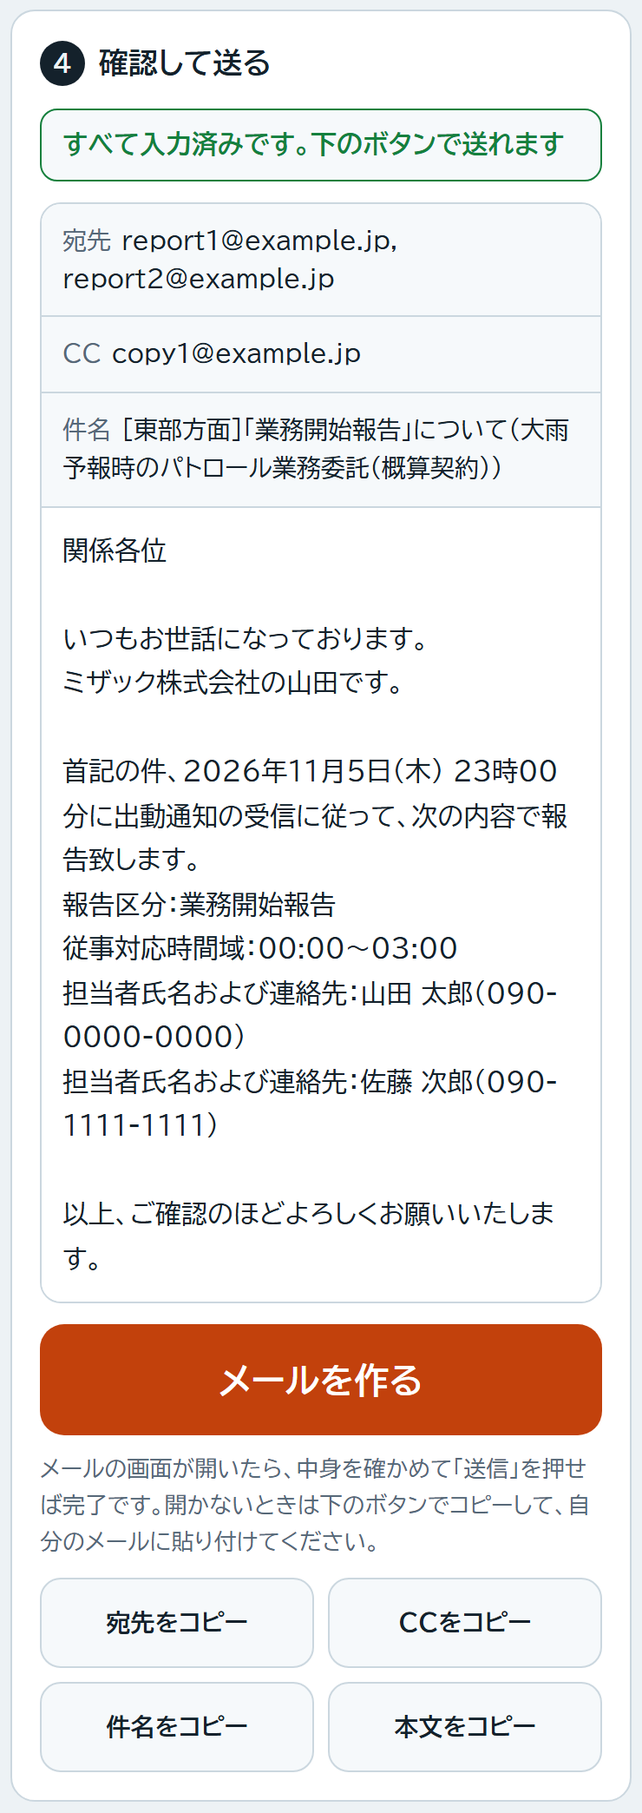
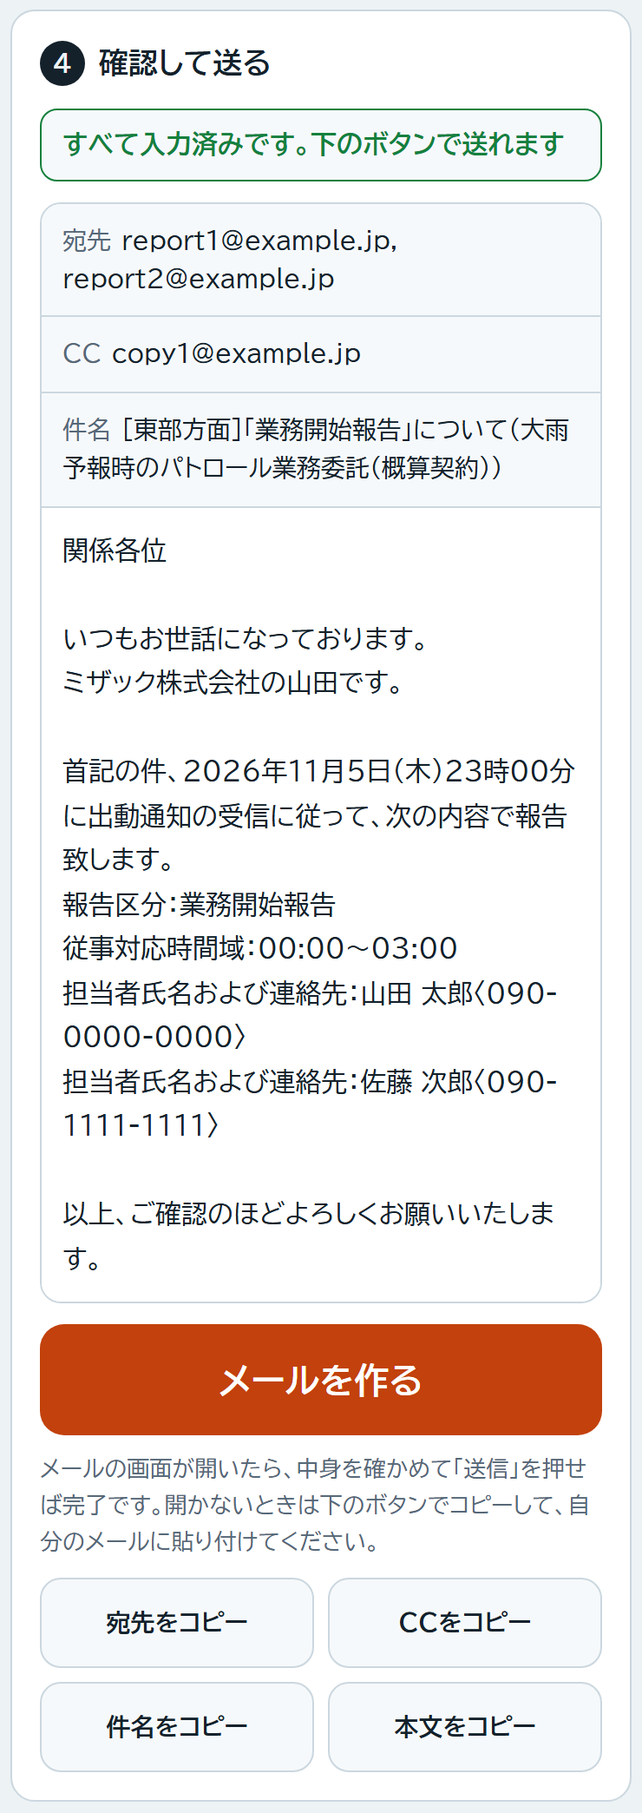
報告メールを運用マニュアルの案文どおりにする
- 経過報告は必ず継続あり（継続時間域・継続の担当者をいつも書く）。「継続あり」のチェックをなくす
- 経過でも異常なしを選べるようにする
- 終了報告の実施済時間域を出動の開始～最後の終了まで通しにする（備考欄をなくす）
- 結果報告を案文の例①②③に戻し、異常ありは電話応答時刻・CWO担当者・対応内容を必須にする
- 異常ありのとき、メールの前に担当方面のエリアマネージャーへ電話する案内を出す
- 方面の初期値をなくす。経過・終了は「次内容で」、連絡先は〈〉、受信日時のスペースを除く
- ガイドに3通りの流れと送る時刻を書く

Changed region(s): [[0.0932, 0.4047, 0.9014, 0.4981]]

diff --git a/index.html b/index.html
@@ -242,66 +242,63 @@ mark.miss{background:none;color:var(--miss);font-weight:700}
   <section>
     <h2><span class="num">3</span>内容</h2>
 
-    <div data-for="start">
-      <span class="lbl">従事対応時間域（予報された3時間）</span>
-      <div class="seg c4 blocks" data-block="planB" role="radiogroup" aria-label="従事対応時間域"></div>
+    <p class="hint" data-for="prog">経過報告は、次の3時間も続けて出動するときに送ります（続けないときは「終了」）。</p>
+
+    <div data-for="start end">
+      <span class="lbl" data-for="start">従事対応時間域（予報された3時間）</span>
+      <span class="lbl" data-for="end">出動したときの3時間（その日の最初）</span>
+      <div class="seg c4 blocks" data-block="planB" role="radiogroup" aria-label="出動したときの時間域"></div>
     </div>
 
     <div data-for="prog end">
-      <span class="lbl" data-for="prog">実施済時間域（パトロールした3時間）</span>
-      <span class="lbl" data-for="end">実施済時間域（最後にパトロールした3時間）</span>
+      <span class="lbl" data-for="prog">実施済時間域（今回パトロールした3時間）</span>
+      <span class="lbl" data-for="end">最後にパトロールした3時間</span>
       <div class="seg c4 blocks" data-block="doneB" role="radiogroup" aria-label="実施済時間域"></div>
+      <p class="hint" data-for="prog" style="margin-top:6px">2回目の経過報告のときは、前回の継続時間域を選んでください。</p>
+      <p class="hint" data-for="end" style="margin-top:6px">メールの実施済時間域は、出動したときから最後までを通しで書きます（<b id="spanView"></b>）。</p>
     </div>
 
     <div data-for="prog end">
       <span class="lbl">結果報告</span>
       <div class="seg result">
-        <label data-for="end"><input type="radio" name="result" value="ok" id="r-ok">異常なし</label>
-        <label><input type="radio" name="result" value="ng" id="r-ng">異常あり（場所・内容・対応を入れる）</label>
+        <label><input type="radio" name="result" value="ok" id="r-ok">異常なし</label>
+        <label><input type="radio" name="result" value="ng" id="r-ng">異常あり（電話してから入れる）</label>
         <label><input type="radio" name="result" value="other" id="r-other">その他（自分で書く）</label>
       </div>
     </div>
     <div data-for="prog end" data-result="ng" class="stack">
+      <div class="banner bad" id="callFirst"></div>
       <input type="hidden" id="abnN" name="abnN" value="1">
       <div class="abn" id="abn1">
         <div class="abnhead"><b>異常 1件目</b></div>
-        <div><label for="place1">所在地</label><input type="text" id="place1" name="place1" placeholder="例）生野区中川4丁目 〇〇付近"></div>
+        <div><label for="place1">場所</label><input type="text" id="place1" name="place1" placeholder="例）生野区中川4丁目 〇〇付近"></div>
         <div><label for="what1">異常内容</label><input type="text" id="what1" name="what1" placeholder="例）マンホールより水柱"></div>
-        <div><label for="cwo1">連絡したCWO担当者（連絡したときだけ）</label><input type="text" id="cwo1" name="cwo1" placeholder="例）佐藤"></div>
-        <div><label for="act1"><span data-for="end">対応内容（連絡以外にしたこと）</span><span data-for="prog">対応内容・このあとの動き</span></label><textarea id="act1" name="act1" class="act" placeholder="例）約10ｍ後方より自主警備実施（CWOと交代まで）"></textarea><p class="hint" data-for="prog" style="margin-top:4px">したこと（連絡以外）と、報告のあと待機するか巡回に戻るかを書いてください。</p></div>
+        <div class="grid2"><div><label for="cwo1">電話したCWO担当者</label><input type="text" id="cwo1" name="cwo1" placeholder="例）佐藤"></div><div><label for="call1">電話の応答時刻</label><input type="time" id="call1" name="call1"></div></div>
+        <div><label for="act1">対応内容（指示されたこと・したこと）</label><textarea id="act1" name="act1" placeholder="例）CWOの指示で、約10ｍ後方より自主警備実施（CWOと交代まで）"></textarea></div>
       </div>
       <div class="abn" id="abn2" hidden>
         <div class="abnhead"><b>異常 2件目</b><button type="button" class="btn-x" data-del="2">この件を消す</button></div>
-        <div><label for="place2">所在地</label><input type="text" id="place2" name="place2" placeholder="例）生野区中川4丁目 〇〇付近"></div>
+        <div><label for="place2">場所</label><input type="text" id="place2" name="place2" placeholder="例）生野区中川4丁目 〇〇付近"></div>
         <div><label for="what2">異常内容</label><input type="text" id="what2" name="what2" placeholder="例）マンホールより水柱"></div>
-        <div><label for="cwo2">連絡したCWO担当者（連絡したときだけ）</label><input type="text" id="cwo2" name="cwo2" placeholder="例）佐藤"></div>
-        <div><label for="act2"><span data-for="end">対応内容（連絡以外にしたこと）</span><span data-for="prog">対応内容・このあとの動き</span></label><textarea id="act2" name="act2" class="act" placeholder="例）約10ｍ後方より自主警備実施（CWOと交代まで）"></textarea><p class="hint" data-for="prog" style="margin-top:4px">したこと（連絡以外）と、報告のあと待機するか巡回に戻るかを書いてください。</p></div>
+        <div class="grid2"><div><label for="cwo2">電話したCWO担当者</label><input type="text" id="cwo2" name="cwo2" placeholder="例）佐藤"></div><div><label for="call2">電話の応答時刻</label><input type="time" id="call2" name="call2"></div></div>
+        <div><label for="act2">対応内容（指示されたこと・したこと）</label><textarea id="act2" name="act2" placeholder="例）CWOの指示で、約10ｍ後方より自主警備実施（CWOと交代まで）"></textarea></div>
       </div>
       <div class="abn" id="abn3" hidden>
         <div class="abnhead"><b>異常 3件目</b><button type="button" class="btn-x" data-del="3">この件を消す</button></div>
-        <div><label for="place3">所在地</label><input type="text" id="place3" name="place3" placeholder="例）生野区中川4丁目 〇〇付近"></div>
+        <div><label for="place3">場所</label><input type="text" id="place3" name="place3" placeholder="例）生野区中川4丁目 〇〇付近"></div>
         <div><label for="what3">異常内容</label><input type="text" id="what3" name="what3" placeholder="例）マンホールより水柱"></div>
-        <div><label for="cwo3">連絡したCWO担当者（連絡したときだけ）</label><input type="text" id="cwo3" name="cwo3" placeholder="例）佐藤"></div>
-        <div><label for="act3"><span data-for="end">対応内容（連絡以外にしたこと）</span><span data-for="prog">対応内容・このあとの動き</span></label><textarea id="act3" name="act3" class="act" placeholder="例）約10ｍ後方より自主警備実施（CWOと交代まで）"></textarea><p class="hint" data-for="prog" style="margin-top:4px">したこと（連絡以外）と、報告のあと待機するか巡回に戻るかを書いてください。</p></div>
+        <div class="grid2"><div><label for="cwo3">電話したCWO担当者</label><input type="text" id="cwo3" name="cwo3" placeholder="例）佐藤"></div><div><label for="call3">電話の応答時刻</label><input type="time" id="call3" name="call3"></div></div>
+        <div><label for="act3">対応内容（指示されたこと・したこと）</label><textarea id="act3" name="act3" placeholder="例）CWOの指示で、約10ｍ後方より自主警備実施（CWOと交代まで）"></textarea></div>
       </div>
       <button type="button" class="btn-add" id="addAbn">＋ 異常をもう1件追加（3件まで）</button>
       <p class="hint">写真は、メールの画面が開いたあとに添付してください。</p>
     </div>
     <div data-for="prog end" data-result="other">
-      <label for="other">結果報告の内容</label>
+      <label for="other">結果報告の内容（事象に応じた報告）</label>
       <textarea id="other" name="other" placeholder="起きたことをそのまま書いてください"></textarea>
     </div>
-    <div data-for="end">
-      <label for="endNote">継続して出動したときの一言（なければ空のまま）</label>
-      <textarea id="endNote" name="endNote" placeholder="例）12:00から継続して巡回し、18:00に終了しました。"></textarea>
-      <p class="hint" style="margin-top:4px">経過報告で「継続あり」にしていたときは、自動で入ります（直せます）。メールには「備考」として入ります。</p>
-    </div>
 
-    <div data-for="prog" class="staff">
-      <label class="check"><input type="checkbox" id="contOn" name="contOn">次の3時間も続けて出動する（継続あり）</label>
-      <p class="hint">続けて出動するときだけチェックします。チェックすると、継続時間域と継続の担当者がメールに入ります。</p>
-    </div>
-    <div data-for="prog" class="stack" id="contArea">
+    <div data-for="prog" class="stack">
       <div>
         <span class="lbl">継続時間域（次の3時間）</span>
         <div class="seg c4 blocks" data-block="contB" role="radiogroup" aria-label="継続時間域"></div>
@@ -353,7 +350,7 @@ mark.miss{background:none;color:var(--miss);font-weight:700}
   var KEY = 'rainReport.form.v1';
   var CFG = 'rainReport.cfg.v1';
   var FIELDS = ['me','area','rDate','rTime','n1','p1','n2','p2','type',
-    'planB','doneB','result','abnN','place1','what1','cwo1','act1','place2','what2','cwo2','act2','place3','what3','cwo3','act3','other','contOn','contSame','cn1','cp1','cn2','cp2','contB','endNote'];
+    'planB','doneB','result','abnN','place1','what1','cwo1','call1','act1','place2','what2','cwo2','call2','act2','place3','what3','cwo3','call3','act3','other','contSame','cn1','cp1','cn2','cp2','contB'];
   var WD = ['日','月','火','水','木','金','土'];
   var TITLE = { start:'業務開始報告', prog:'業務実施状況（継続・経過報告）', end:'業務終了報告' };
   var KUBUN = { start:'業務開始報告', prog:'継続・経過報告', end:'業務終了報告' };
@@ -506,7 +503,7 @@ mark.miss{background:none;color:var(--miss);font-weight:700}
   if(s.place && s.place1 === undefined) set('place1', s.place);
   if(s.cwo && s.cwo1 === undefined) set('cwo1', s.cwo);
   if(!(+get('abnN') >= 1)) set('abnN', '1');
-  if(!get('area')) set('area','東部方面');
+  // 方面は最初から選ばない（東部・南部が同時に出動するので、選び忘れたら ● で気づけるように）
   if(!get('type')) set('type','start');
   if(!get('result')) set('result','ok');
   if(s.contSame === undefined) set('contSame', true);
@@ -526,23 +523,34 @@ mark.miss{background:none;color:var(--miss);font-weight:700}
     var t = get('type');
     if(!get('planB')) set('planB', blkAfter(get('rTime')));
     if(t !== 'start' && !get('doneB')) set('doneB', get('planB'));
-    if(t === 'prog' && get('contOn') && !get('contB')) set('contB', nextBlk(get('doneB')));
-    if(t === 'prog' && get('result') === 'ok') set('result', 'ng'); // 経過は異常なしを使わない（異常なしは終了報告で）
+    if(t === 'prog' && !get('contB')) set('contB', nextBlk(get('doneB')));
+  }
+  // 報告を切り替えたとき：出動 → 経過 → 経過 … → 終了 の流れに合わせて時間域を進める
+  //   出動→経過・終了：実施済＝出動の3時間　経過→終了：最後の3時間＝経過の継続時間域
+  function typeChanged(from, to){
+    if(from === 'start' && to !== 'start' && get('planB')){ set('doneB', get('planB')); set('contB', nextBlk(get('planB'))); }
+    if(from === 'prog' && to === 'end' && get('contB')) set('doneB', get('contB'));
+    fillDefaults();
   }
 
   // ---- build mail ----
   function ph(v){ return v ? v : '●'; }
   function staffLines(n1,p1,n2,p2){
     // 担当者は必ず2名。空なら ● を出して未入力として数える
-    return ['担当者氏名および連絡先：' + ph(n1) + '（' + ph(p1) + '）',
-            '担当者氏名および連絡先：' + ph(n2) + '（' + ph(p2) + '）'];
+    return ['担当者氏名および連絡先：' + ph(n1) + '〈' + ph(p1) + '〉',
+            '担当者氏名および連絡先：' + ph(n2) + '〈' + ph(p2) + '〉'];
+  }
+  // 終了報告の実施済時間域：出動したときの3時間の始まり～最後の3時間の終わり（例：06:00～15:00）
+  function spanBlk(a, b){
+    if(a === '' || b === '') return '●～●';
+    return hhmm(+a) + '～' + hhmm(+b + 3);
   }
   function recv(){
     var d = get('rDate'), t = get('rTime'), ds = '●年●月●日（●）', ts = '●時●分';
     if(d){ var p = d.split('-'); var dt = new Date(+p[0], +p[1]-1, +p[2]);
       ds = p[0]+'年'+(+p[1])+'月'+(+p[2])+'日（'+WD[dt.getDay()]+'）'; }
     if(t){ var q = t.split(':'); ts = (+q[0])+'時'+q[1]+'分'; }
-    return ds + ' ' + ts;
+    return ds + ts;
   }
   function abnCount(){ var n = +get('abnN'); return (n >= 1 && n <= 3) ? n : 1; }
   function showAbn(){
@@ -550,44 +558,46 @@ mark.miss{background:none;color:var(--miss);font-weight:700}
     for(var i=1;i<=3;i++) $('abn'+i).hidden = i > n;
     $('addAbn').hidden = n >= 3;
   }
+  function hm(t){ if(!t) return '●時●分'; var q = t.split(':'); return (+q[0]) + '時' + q[1] + '分'; }
   function resultText(){
     var r = get('result');
-    // 案文は使わず、入力したものだけを並べる（所在地・異常内容は必須、CWO担当者・対応内容は入れたときだけ）
+    // 案文の例①（異常なし）・例②（異常あり）・例③（その他）。
+    // 例②のあとに、CWOから求められた「異常内容・電話の応答時刻・対応内容」を足す（すべて必須）
     if(r === 'ng'){
       var n = abnCount(), L = [];
       for(var i=1;i<=n;i++){
         if(n > 1) L.push('【' + i + '件目】');
-        L.push('所在地：' + ph(get('place'+i)), '異常内容：' + ph(get('what'+i)));
-        if(get('cwo'+i)) L.push('連絡したCWO担当者：' + get('cwo'+i));
-        if(get('act'+i)) L.push('対応内容：' + get('act'+i));
+        L.push('パトロールを実施した結果、' + ph(get('place'+i)) + 'にて下水道施設に異常がある事を発見しましたので、CWO担当者' + ph(get('cwo'+i)) + '様に連絡し対応図ってもらいました。',
+               '異常内容：' + ph(get('what'+i)),
+               '電話応答時刻：' + hm(get('call'+i)),
+               '対応内容：' + ph(get('act'+i)));
       }
       return L.join('\n');
     }
     if(r === 'other') return ph(get('other'));
-    return '異常なし';
+    return 'パトロールを実施した結果、道路及び道路上の下水道施設については、異常が見受けられませんでした。';
   }
   function build(){
     var t = get('type');
-    var sub = '[' + get('area') + ']「' + TITLE[t] + '」について' + CONTRACT;
+    // 文面は運用マニュアルの案文どおり（開始だけ「次の内容で」、経過・終了は「次内容で」）
+    var sub = '[' + ph(get('area')) + ']「' + TITLE[t] + '」について' + CONTRACT;
     var staff = staffLines(get('n1'),get('p1'),get('n2'),get('p2'));
     var L = ['関係各位','','いつもお世話になっております。', (cfg.company || DEFAULT_COMPANY) + 'の' + ph(get('me')) + 'です。','',
-      '首記の件、' + recv() + 'に出動通知の受信に従って、次の内容で報告致します。',
+      '首記の件、' + recv() + 'に出動通知の受信に従って、' + (t === 'start' ? '次の内容で' : '次内容で') + '報告致します。',
       '報告区分：' + KUBUN[t]];
     if(t === 'start'){
       L.push('従事対応時間域：' + blk(get('planB')));
       L = L.concat(staff);
     } else {
       if(t === 'prog') L.push('');
-      L.push('実施済時間域：' + blk(get('doneB')));
+      L.push('実施済時間域：' + (t === 'end' ? spanBlk(get('planB'), get('doneB')) : blk(get('doneB'))));
       L = L.concat(staff);
-      if(get('result') === 'ok') L.push('結果報告：' + resultText());
-      else L.push('結果報告：', resultText());
-      if(t === 'prog' && get('contOn')){ // 続けて出動するときだけ
+      L.push('結果報告：', resultText());
+      if(t === 'prog'){ // 経過報告は必ず継続あり（次の3時間の開始報告を兼ねる）
         L.push('', '継続時間域：' + blk(get('contB')));
         L = L.concat(get('contSame') ? staff : staffLines(get('cn1'),get('cp1'),get('cn2'),get('cp2')));
       }
     }
-    if(t === 'end' && get('endNote')) L.push('', '備考：' + get('endNote'));
     L.push('', '以上、ご確認のほどよろしくお願いいたします。');
     return { to: cfg.to.slice(), cc: cfg.cc.slice(), sub: sub, body: L.join('\n') };
   }
@@ -596,6 +606,7 @@ mark.miss{background:none;color:var(--miss);font-weight:700}
   function marked(x){ return esc(x).replace(/●/g,'<mark class="miss">●</mark>'); }
 
   var current = null;
+  var lastType = get('type'); // 報告を切り替える前の種類（時間域を流れに合わせて進めるため）
   function render(){
     var t = get('type');
     document.body.setAttribute('data-type', t);
@@ -608,11 +619,8 @@ mark.miss{background:none;color:var(--miss);font-weight:700}
       el.hidden = !show;
     });
     $('contStaff').hidden = !!get('contSame');
-    document.querySelectorAll('textarea.act').forEach(function(a){ // 経過は「このあとの動き」も書く
-      a.placeholder = t === 'prog' ? '例）約10ｍ後方より自主警備実施（CWOと交代まで）。報告後は巡回に戻ります。'
-                                   : '例）約10ｍ後方より自主警備実施（CWOと交代まで）';
-    });
-    if(!get('contOn')) $('contArea').hidden = true;
+    $('callFirst').textContent = 'メールを送る前に、まず' + (get('area') || '担当の方面') + 'のエリアマネージャーに電話して、指示をもらってください。';
+    $('spanView').textContent = spanBlk(get('planB'), get('doneB'));
     document.querySelectorAll('[data-set]').forEach(function(b){ // 今の値と同じボタンに色を付ける
       var on = get(b.getAttribute('data-set')) === b.getAttribute('data-v');
       b.classList.toggle('on', on); b.setAttribute('aria-pressed', on ? 'true' : 'false');
@@ -657,12 +665,8 @@ mark.miss{background:none;color:var(--miss);font-weight:700}
     var nm = e.target.name;
     if(nm === 'doneB') set('contB', nextBlk(get('doneB')));
     if(nm === 'rTime') recvChanged();
-    // 継続ありの経過報告から終了に切り替えたとき：実施済を継続のブロックに合わせ、備考に一言入れる
-    if(nm === 'type' && get('type') === 'end' && get('contOn') && get('contB')){
-      set('doneB', get('contB'));
-      if(!get('endNote') && get('planB')) set('endNote', hhmm(+get('planB')) + 'から継続して巡回し、' + hhmm(+get('doneB') + 3) + 'に終了しました。');
-    }
-    if(nm === 'type' || nm === 'planB' || nm === 'contOn') fillDefaults();
+    if(nm === 'type'){ typeChanged(lastType, get('type')); lastType = get('type'); }
+    if(nm === 'planB') fillDefaults();
     render();
   });
   document.querySelectorAll('[data-set]').forEach(function(b){
@@ -675,7 +679,7 @@ mark.miss{background:none;color:var(--miss);font-weight:700}
   });
 
   // abnormal items
-  var AK = ['place','what','cwo','act'];
+  var AK = ['place','what','cwo','call','act'];
   $('addAbn').addEventListener('click', function(){
     var n = abnCount(); if(n >= 3) return;
     set('abnN', String(n+1)); render();
@@ -701,10 +705,9 @@ mark.miss{background:none;color:var(--miss);font-weight:700}
     clearTimeout(armTimer); rb.classList.remove('arm'); rb.textContent = rbText;
     set('rDate', nowParts().date);
     ['rTime','planB','doneB','contB','other'].forEach(function(k){ set(k,''); });
-    set('contOn', false); set('endNote', '');
     [1,2,3].forEach(function(i){ AK.forEach(function(k){ set(k+i,''); }); });
     set('abnN','1');
-    set('result','ok'); set('type','start');
+    set('result','ok'); set('type','start'); lastType = 'start';
     fillDefaults(); render();
   });
 

diff --git a/guide.html b/guide.html
@@ -128,14 +128,19 @@ ul{margin:0;padding-left:1.2em;display:flex;flex-direction:column;gap:4px}
   <!-- ===== 報告を送る ===== -->
   <section class="part pagebreak">
     <h2>報告を送る <span class="tag">出動のたびに</span></h2>
-    <p>報告は3回です。どれも同じページで、上から順に進めるだけです。</p>
-    <div class="flow"><span class="pill s">出動</span>→<span class="pill p">経過</span>→<span class="pill e">終了</span></div>
+    <p>報告は<b>出動・経過・終了</b>の3種類です。どれも同じページで、上から順に進めるだけです。何時間続くかで、送る組み合わせは次の3通りです。</p>
+    <ul>
+      <li>3時間で終わる：<span class="pill s">出動</span>→<span class="pill e">終了</span></li>
+      <li>1回続く：<span class="pill s">出動</span>→<span class="pill p">経過</span>→<span class="pill e">終了</span></li>
+      <li>2回以上続く：<span class="pill s">出動</span>→<span class="pill p">経過</span>→<span class="pill p">経過</span>…→<span class="pill e">終了</span></li>
+    </ul>
+    <p class="note"><b>送る時刻</b>：<span class="pill s">出動</span> は従事対応時間域が<b>始まる前</b>に。<span class="pill p">経過</span> は実施済時間域の<b>終わりごろ</b>で、継続時間域が始まる前に。<span class="pill e">終了</span> は実施済時間域が<b>終わったあと</b>に送ります。</p>
 
     <div class="step">
       <div class="txt">
         <div class="head"><span class="n">1</span><h3>出動の情報を入れる</h3></div>
         <ul>
-          <li><b>方面</b>：東部か南部を押す</li>
+          <li><b>方面</b>：東部か南部を押す。東部と南部は同時に出動するので、<b>最初は選ばれていません</b>。選ぶまで件名に赤い <span class="dot">●</span> が出ます</li>
           <li><b>アラートメールを受信した日時</b>：アラートメール（出動通知）が<b>届いた時刻</b>です。今の時刻ではありません。ふつうは <span class="k">5:00</span> <span class="k">11:00</span> <span class="k">17:00</span> <span class="k">23:00</span> のどれかなので、ボタンを押すだけで入ります</li>
           <li><b>担当者</b>：名前と携帯番号。<b>必ず2名とも</b>入れます。1名だけだと、メールに赤い <span class="dot">●</span> が出ます</li>
         </ul>
@@ -150,7 +155,7 @@ ul{margin:0;padding-left:1.2em;display:flex;flex-direction:column;gap:4px}
         <p>今から送る報告のボタンを押します。</p>
         <ul>
           <li><span class="pill s">出動</span> 現場に向かうとき（業務開始報告）</li>
-          <li><span class="pill p">経過</span> 途中の報告（継続・経過報告）</li>
+          <li><span class="pill p">経過</span> 次の3時間も続けて出動するとき（継続・経過報告）。今の3時間の終了報告と、次の3時間の開始報告を兼ねます。続けないときは送らず、終了報告にします</li>
           <li><span class="pill e">終了</span> 終わったとき（業務終了報告）</li>
         </ul>
         <p>押したボタンによって、下の入力欄とメールの文面が自動で切り替わります。</p>
@@ -164,8 +169,8 @@ ul{margin:0;padding-left:1.2em;display:flex;flex-direction:column;gap:4px}
         <p>時間域は<b>3時間ごと</b>（0時・3時・6時…21時から）のボタンから1つ選びます。受信時刻を入れると、その予報の3時間が自動で選ばれます（例：5:00 の通知なら 06:00～09:00）。受信時刻を入れ直すと、時間域も選び直されます。違うときは押し直せば変えられます。</p>
         <ul>
           <li><span class="pill s">出動</span> 従事対応時間域：予報された3時間</li>
-          <li><span class="pill p">経過</span> 実施済時間域：パトロールした3時間。続けて出動するときだけ、継続時間域（次の3時間）が自動で入ります</li>
-          <li><span class="pill e">終了</span> 実施済時間域：最後にパトロールした3時間。経過で「継続あり」にしていたときは、継続した3時間が自動で入ります。あわせて「継続して出動したときの一言」に「12:00から継続して巡回し、18:00に終了しました。」のような文が入り、メールに「備考」として載ります（直したり消したりできます）</li>
+          <li><span class="pill p">経過</span> 実施済時間域：今回パトロールした3時間。継続時間域（次の3時間）は自動で入ります。<b>2回目の経過</b>のときは、実施済時間域で<b>前回の継続時間域</b>を押してください</li>
+          <li><span class="pill e">終了</span> 実施済時間域は、<b>出動したときから最後まで通し</b>で書きます（例：06:00～15:00）。「出動したときの3時間」と「最後にパトロールした3時間」が自動で選ばれるので、違うときだけ押し直します</li>
         </ul>
       </div>
       <figure><img src="img/04_start.png" alt="従事対応時間域の3時間ごとのボタン"></figure>
@@ -176,13 +181,13 @@ ul{margin:0;padding-left:1.2em;display:flex;flex-direction:column;gap:4px}
         <div class="head"><span class="n">4</span><h3>経過・終了のときは結果も選ぶ</h3></div>
         <p>「結果報告」から1つ選びます。</p>
         <ul>
-          <li><b>異常なし</b>：メールには「異常なし」とだけ入ります。<b>終了報告だけ</b>で選べます（異常がなかったときは経過報告を送らず、終了報告で伝えます）</li>
-          <li><b>異常あり</b>：所在地と異常内容を入れます。CWOに連絡したときは担当者の名前を、ほかにしたことがあれば対応内容も入れます。<span class="pill p">経過</span> のときは、報告のあと<b>待機するか巡回に戻るか</b>も対応内容に書きます（例：報告後は巡回に戻ります）。メールには<b>入れた内容だけ</b>がそのまま入ります。<b>2か所以上</b>あったときは「異常をもう1件追加」で<b>3件まで</b>入れられます</li>
-          <li><b>その他</b>：起きたことを自分で書きます</li>
+          <li><b>異常なし</b>：メールには案文どおり「パトロールを実施した結果、道路及び道路上の下水道施設については、異常が見受けられませんでした。」と入ります</li>
+          <li><b>異常あり</b>：<b>メールの前に、まず担当方面のエリアマネージャーに電話</b>して、指示をもらってください。そのあと、場所・異常内容・電話したCWO担当者・電話の応答時刻・対応内容（指示されたこと・したこと）を<b>全部</b>入れます。メールには案文の文（「…にて下水道施設に異常がある事を発見しましたので、CWO担当者〇〇様に連絡し対応図ってもらいました。」）と、異常内容・電話応答時刻・対応内容が入ります。<b>2か所以上</b>あったときは「異常をもう1件追加」で<b>3件まで</b>入れられます</li>
+          <li><b>その他</b>：起きたことを自分で書きます（事象に応じた報告）</li>
         </ul>
-        <p><span class="pill p">経過</span> で次の3時間も続けて出動するときは、<b>「次の3時間も続けて出動する（継続あり）」</b>にチェックを入れます。継続時間域と継続の担当者が出てきて、メールにも入ります。続けないときはチェックしないでください。継続の担当者が同じなら、「継続の担当者も上と同じ」はチェックを付けたままでOKです。担当者が入れ替わるときは、チェックを外して継続の担当者2名を入れ直してください。</p>
+        <p><span class="pill p">経過</span> のときは、継続の担当者もメールに入ります。同じ人なら「継続の担当者も上と同じ」はチェックを付けたままでOKです。担当者が入れ替わるときは、チェックを外して継続の担当者2名を入れ直してください。</p>
       </div>
-      <figure><img src="img/06_prog.png" alt="終了報告の入力欄。結果報告で異常ありを選び、所在地・異常内容・対応内容を入れた例"></figure>
+      <figure><img src="img/06_prog.png" alt="終了報告の入力欄。結果報告で異常ありを選び、場所・異常内容・電話・対応内容を入れた例"></figure>
     </div>
 
     <div class="step tall">

diff --git a/tools/shots.py b/tools/shots.py
@@ -57,7 +57,7 @@ with sync_playwright() as p:
     shot(pg, ['section:has([data-block=planB])'], '04_start.png')
     shot(pg, ['section:has(#status)'], '05_send.png')
     f = dict(base_form, type='end', result='ng', doneB='3', abnN='1', place1='生野区中川4丁目 〇〇付近',
-             what1='マンホールより水柱', cwo1='鈴木', act1='約10ｍ後方より自主警備実施（CWOと交代まで）')
+             what1='マンホールより水柱', cwo1='鈴木', call1='01:25', act1='CWOの指示で、約10ｍ後方より自主警備実施（CWOと交代まで）')
     pg = newpage(form=f, cfg_store=cfg)
     shot(pg, ['section:has([data-block=planB])'], '06_prog.png')
     pg = newpage(form=dict(base_form, rTime='', p2=''), cfg_store=cfg)
